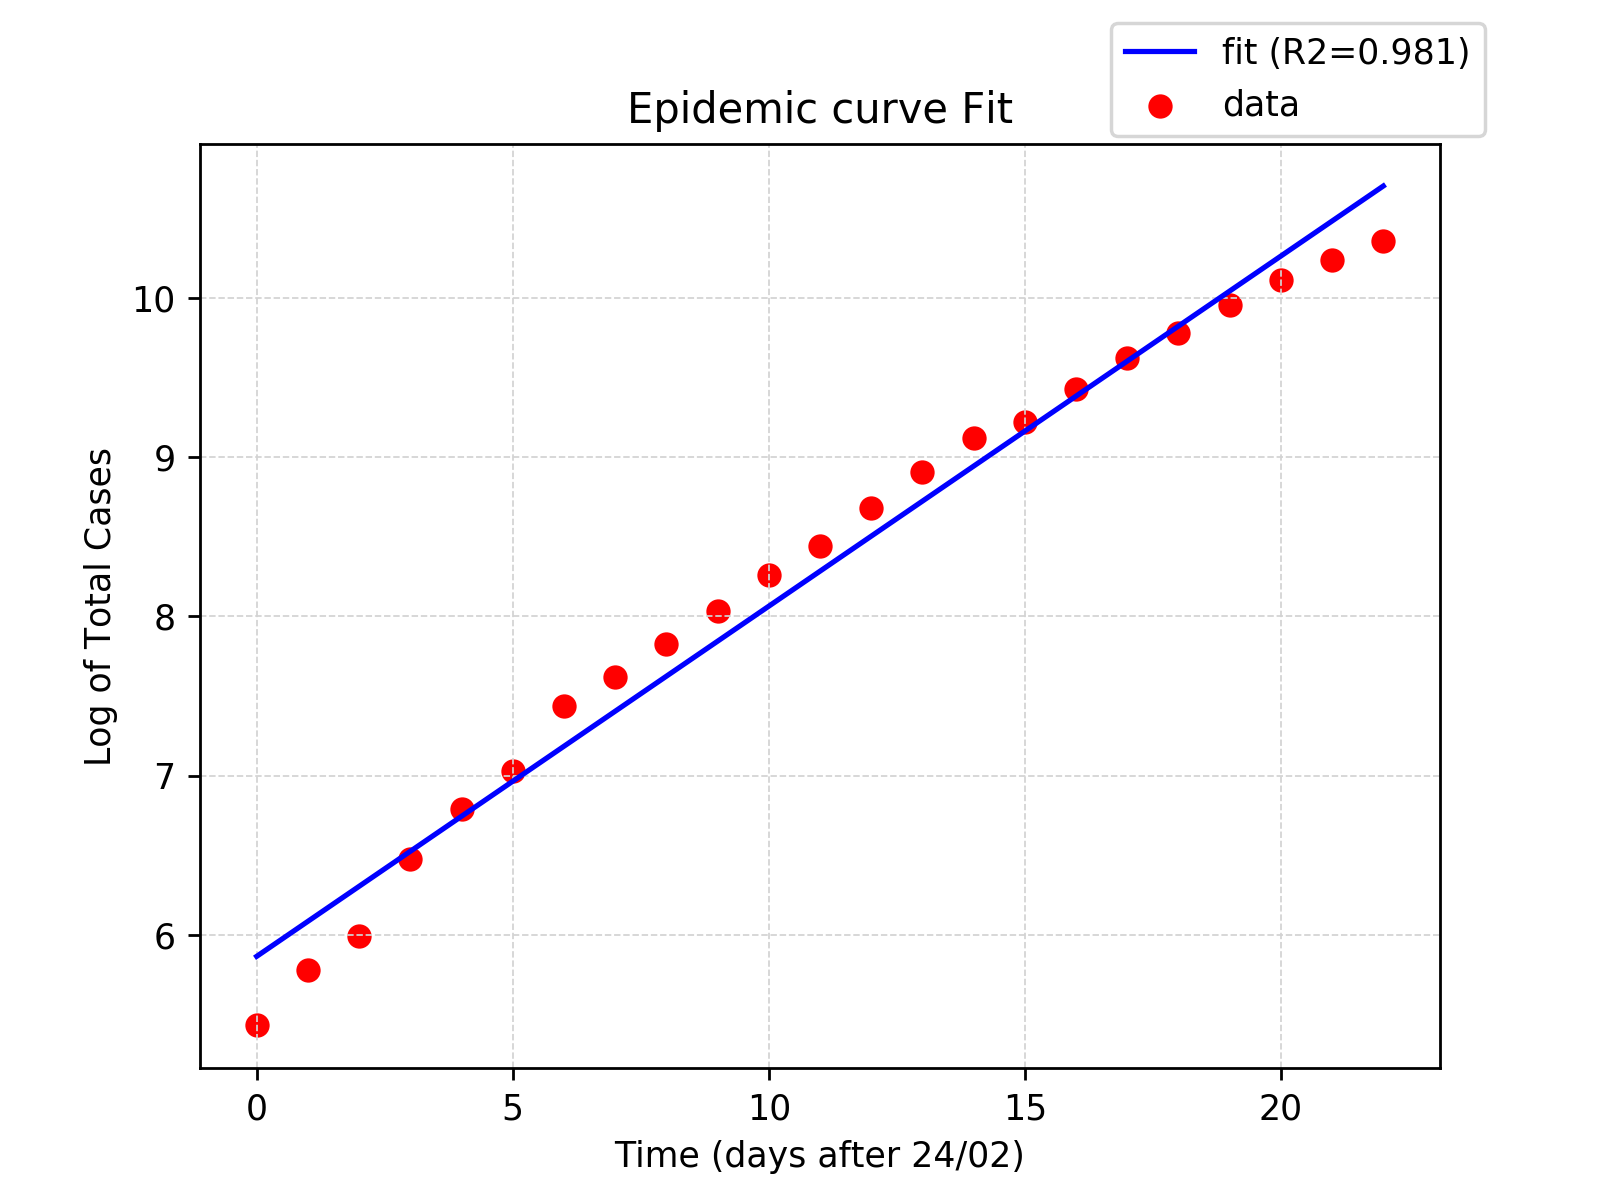
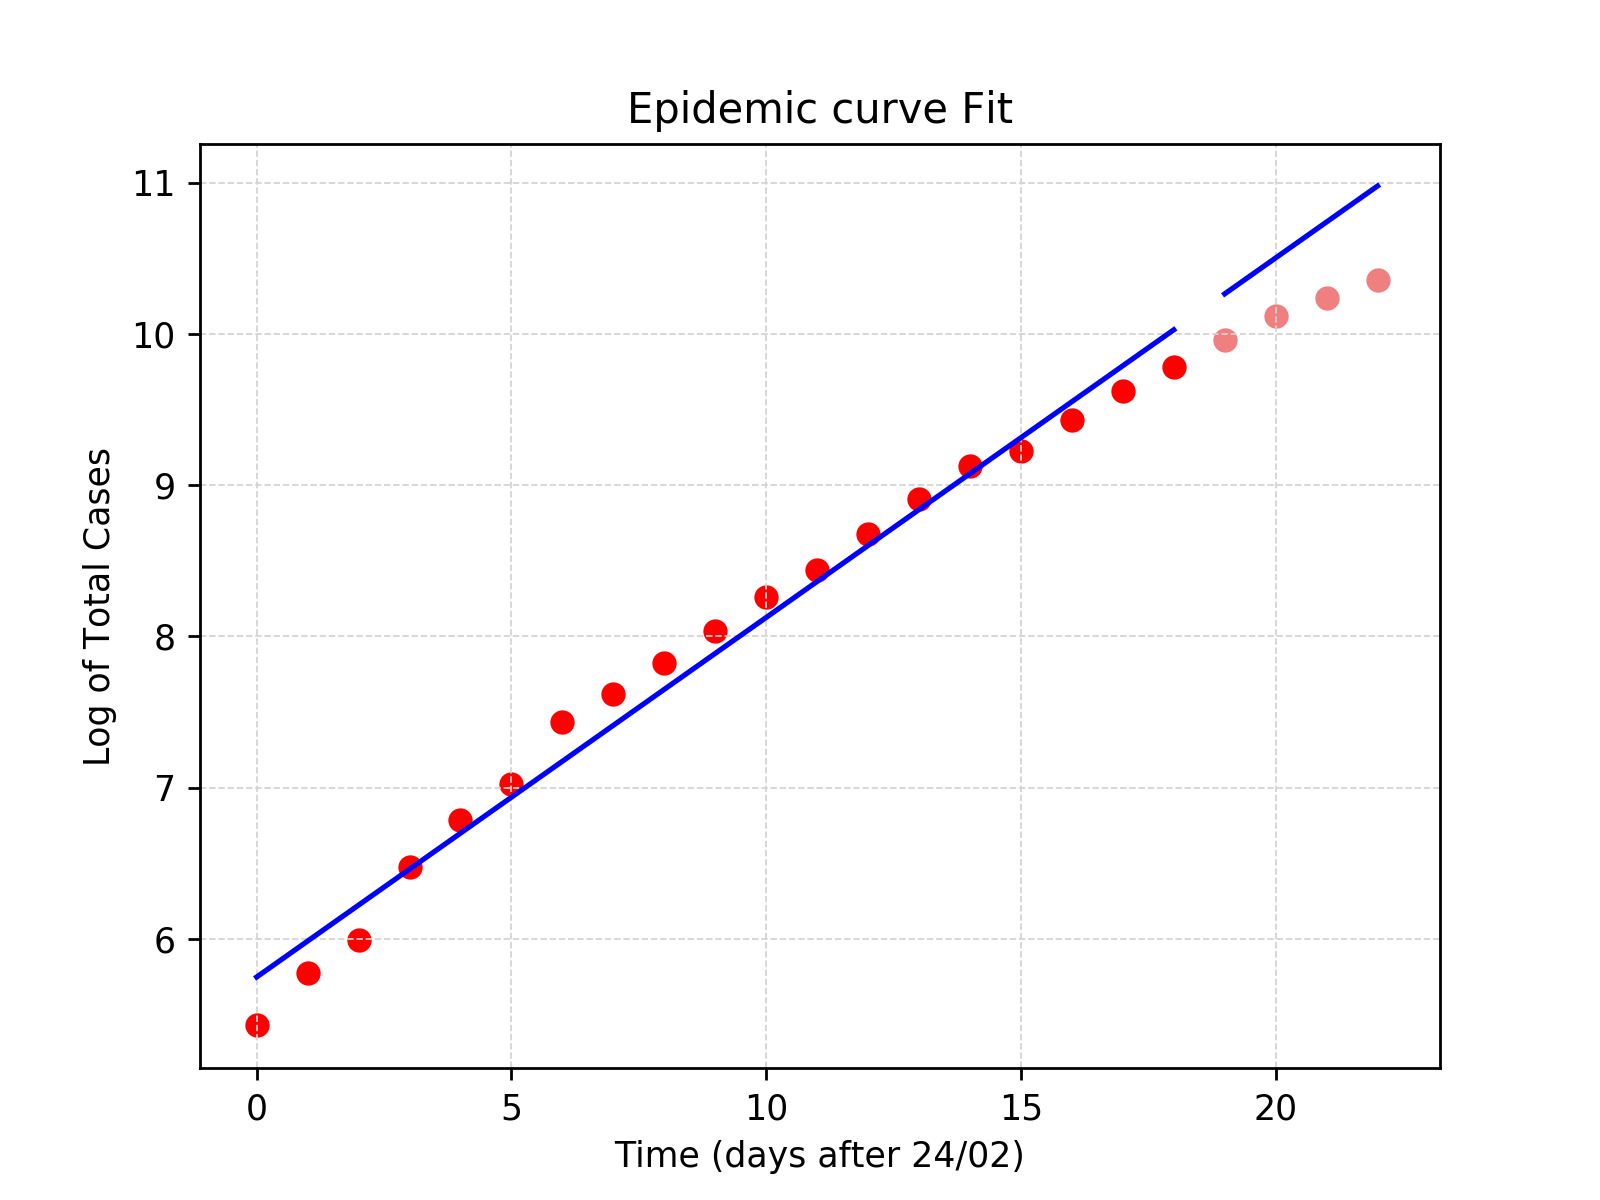
do not train on all data linear regression

diff --git a/plotscatter.py b/plotscatter.py
@@ -70,10 +70,18 @@ regressor = LinearRegression()
 #regressor = Ridge()
 #regressor = Lasso()
 
-regressor.fit(x,y)
-Y_pred_train = regressor.predict(x) # useful for plot
+# train on data without last few days
+minus_last_days_to_skip = -4
+x_train = x[:minus_last_days_to_skip]
+x_test = x[minus_last_days_to_skip:]
+y_train = y[:minus_last_days_to_skip]
+y_test = y[minus_last_days_to_skip:]
 
-score = regressor.score(x, y) # R2 score
+regressor.fit(x_train,y_train)
+Y_pred_train = regressor.predict(x_train) # useful for plot
+Y_pred_test = regressor.predict(x_test)
+
+score = regressor.score(x_train, y_train) # R2 score
 growth = regressor.coef_[0] # coefficients reg.coef_ is an array in general, when fitting multidimensional X values
 n0 = regressor.intercept_ # intercepts
 
@@ -82,15 +90,29 @@ print('\nSCORE:\n', score)
 print('COEFFICIENT:\n', growth)
 print('INTERCEPT:\n', n0)
 
-#Training
-plt.scatter(x,y,color = 'red')
-plt.plot(x,Y_pred_train,color = 'blue')
+#plot of fit vs data
+plt.scatter(x_train,y_train,color = 'red')
+plt.scatter(x_test,y_test,color = 'lightcoral')
+plt.plot(x_train,Y_pred_train,color = 'blue')
+plt.plot(x_test,Y_pred_test,color = 'blue')
 plt.title('Epidemic curve Fit')
 plt.xlabel('Time (days after 24/02)')
 plt.ylabel('Log of Total Cases')
-plt.legend(('fit (R2={:.3f})'.format(score), 'data'),loc='upper right', bbox_to_anchor=(1.05, 1.15))
+#plt.legend(('fit (R2={:.3f})'.format(score), 'data'),loc='upper right', bbox_to_anchor=(1.05, 1.15))
 plt.grid(color='lightgray', linestyle='--', linewidth=0.5)
 plt.savefig('./curves/epidemic-curve-fit-TRAIN.png', dpi=250)
+plt.clf()
+
+plt.scatter(x_train,np.exp(y_train),color = 'red')
+plt.scatter(x_test,np.exp(y_test),color = 'lightcoral')
+plt.plot(x_train,np.exp(Y_pred_train),color = 'blue')
+plt.plot(x_test,np.exp(Y_pred_test),color = 'blue')
+plt.title('Epidemic curve Fit')
+plt.xlabel('Time (days after 24/02)')
+plt.ylabel('Total Cases')
+#plt.legend(('fit (R2={:.3f})'.format(score), 'data'),loc='upper right', bbox_to_anchor=(1.05, 1.15))
+plt.grid(color='lightgray', linestyle='--', linewidth=0.5)
+plt.savefig('./curves/epidemic-curve-fit-TRAIN-2.png', dpi=250)
 plt.clf()
 
 last = len(dataset['totale_casi'])
